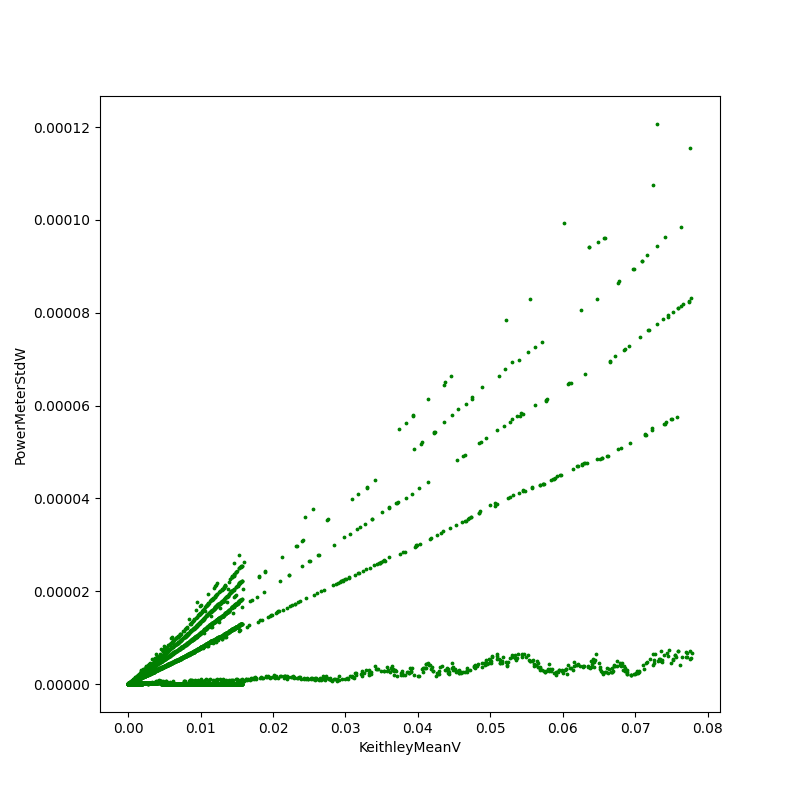
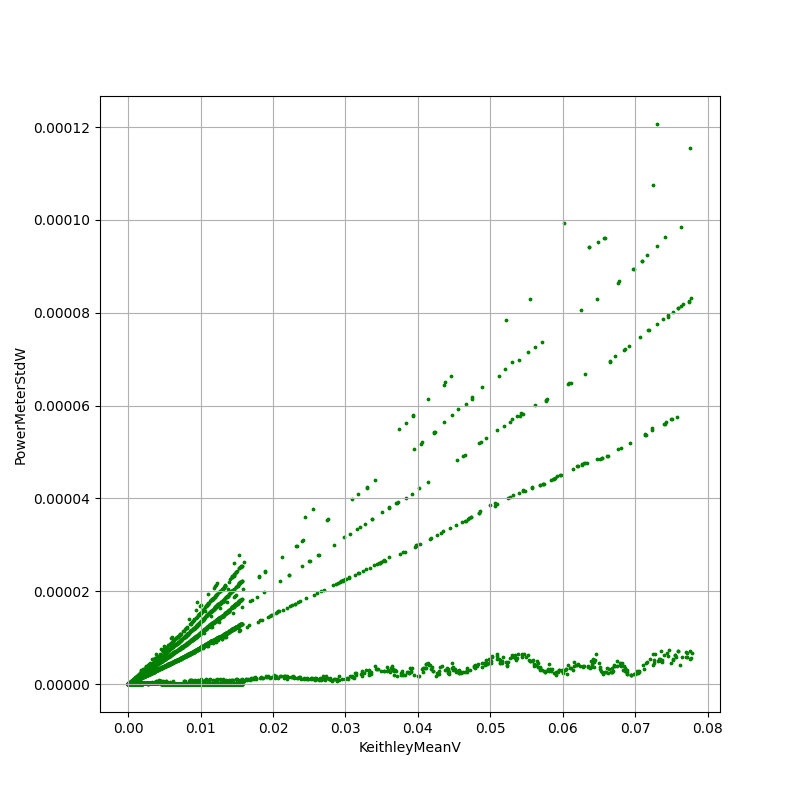
updates

diff --git a/test.py b/test.py
@@ -3,12 +3,22 @@ import matplotlib.pyplot as plt
 import os
 import pandas as pd
 from scipy.stats import linregress
+from astropy.time import Time
 
 # Read file and extract them by columns. 
 filename = '/workspaces/sensors-analysis/data/PM_vs_PD_Sensitivity_Final_1.txt'
+plt.close('all')
 
 run = pd.read_csv(filename, delimiter ='\t')
 print(run)
+
+TimenOk=run.loc[run['Time'].str.len() == 10].index #those are not ok we need to change
+run.loc[TimenOk,'Time'] = '0'+run['Time']
+tt=run['Date'].str[6:10]+'-'+run['Date'].str[3:5]+'-'+run['Date'].str[0:2]+' '+run['Time'].str[:8]+'.000'
+t = Time(list(tt.values), format='iso', scale='utc')
+#print(t.gps)
+
+
 # Add an index so that it is easy to be parsed when we do a time-fluction study
 plotsDir='Plots/'
 isExist = os.path.exists(plotsDir)
@@ -24,68 +34,178 @@ if not isExist:
    os.makedirs(nameDir)
    print("The new subdirectory is created!")
 
-# Subsets of filters
+#Time series plots
+plt.plot(t.gps, run['PowerMeterMeanW'].values, linestyle='None', marker='.', label='PowerMeterMeanW')
+plt.ylabel('PowerMeterMeanW')
+plt.xlabel('GPSTime (s)')
+plt.grid()
+plt.savefig(nameDir+'/PowerMeterMeanWvsTime.png')
+plt.close()
+
+#Time series plots
+
+plt.plot(t.gps-t.gps[0], run['PowerMeterMeanW'].values, linestyle='None', marker='o', label='PowerMeterMeanW', alpha=0.7)
+plt.plot(t.gps-t.gps[0], run['KeithleyMeanV'].values, linestyle='None', marker='.', label='KeithleyMeanV', alpha=0.5)
+plt.xlabel('seconds (s)')
+#plt.plot(t.gps, run['PowerMeterMeanW'].values, linestyle='None', marker='o', label='PowerMeterMeanW', alpha=0.7)
+#plt.plot(t.gps, run['KeithleyMeanV'].values, linestyle='None', marker='.', label='KeithleyMeanV', alpha=0.5)
+#plt.xlabel('GPSTime (s)')
+plt.legend()
+plt.grid()
+plt.savefig(nameDir+'/quantitiesvsTimeRun1234.png')
+plt.close()
+
+#time series divived by run
+Firstrun=[0,1235]
+Secondrun=[1235,5057]
+Thirdrun=[5058,8879]
+Fourthrun=[8880,10643]
+#nfilters= len(np.unique(run["NDFilter"]))
+
+
+plt.plot(t.gps[0:1234]-t.gps[0], run['PowerMeterMeanW'].values[0:1234], linestyle='None', marker='o', label='PowerMeterMeanW', alpha=0.7)
+plt.plot(t.gps[0:1234]-t.gps[0], run['KeithleyMeanV'].values[0:1234], linestyle='None', marker='.', label='KeithleyMeanV', alpha=0.5)
+plt.xlabel('seconds (s)')
+#plt.plot(t.gps, run['PowerMeterMeanW'].values, linestyle='None', marker='o', label='PowerMeterMeanW', alpha=0.7)
+#plt.plot(t.gps, run['KeithleyMeanV'].values, linestyle='None', marker='.', label='KeithleyMeanV', alpha=0.5)
+#plt.xlabel('GPSTime (s)')
+plt.legend()
+plt.grid()
+plt.savefig(nameDir+'/quantitiesvsTimeRun1.png')
+plt.close()
+
+plt.plot(t.gps[1235:5056]-t.gps[0], run['PowerMeterMeanW'].values[1235:5056], linestyle='None', marker='o', label='PowerMeterMeanW', alpha=0.7)
+plt.plot(t.gps[1235:5056]-t.gps[0], run['KeithleyMeanV'].values[1235:5056], linestyle='None', marker='.', label='KeithleyMeanV', alpha=0.5)
+plt.xlabel('seconds (s)')
+#plt.plot(t.gps, run['PowerMeterMeanW'].values, linestyle='None', marker='o', label='PowerMeterMeanW', alpha=0.7)
+#plt.plot(t.gps, run['KeithleyMeanV'].values, linestyle='None', marker='.', label='KeithleyMeanV', alpha=0.5)
+#plt.xlabel('GPSTime (s)')
+plt.legend()
+plt.grid()
+plt.savefig(nameDir+'/quantitiesvsTimeRun2.png')
+plt.close()
+
+plt.plot(t.gps[5057:8878]-t.gps[0], run['PowerMeterMeanW'].values[5057:8878], linestyle='None', marker='o', label='PowerMeterMeanW', alpha=0.7)
+plt.plot(t.gps[5057:8878]-t.gps[0], run['KeithleyMeanV'].values[5057:8878], linestyle='None', marker='.', label='KeithleyMeanV', alpha=0.5)
+plt.xlabel('seconds (s)')
+#plt.plot(t.gps, run['PowerMeterMeanW'].values, linestyle='None', marker='o', label='PowerMeterMeanW', alpha=0.7)
+#plt.plot(t.gps, run['KeithleyMeanV'].values, linestyle='None', marker='.', label='KeithleyMeanV', alpha=0.5)
+#plt.xlabel('GPSTime (s)')
+plt.legend()
+plt.grid()
+plt.savefig(nameDir+'/quantitiesvsTimeRun3.png')
+plt.close()
+
+plt.plot(t.gps[8879:-1]-t.gps[0], run['PowerMeterMeanW'].values[8879:-1], linestyle='None', marker='o', label='PowerMeterMeanW', alpha=0.7)
+plt.plot(t.gps[8879:-1]-t.gps[0], run['KeithleyMeanV'].values[8879:-1], linestyle='None', marker='.', label='KeithleyMeanV', alpha=0.5)
+plt.xlabel('seconds (s)')
+#plt.plot(t.gps, run['PowerMeterMeanW'].values, linestyle='None', marker='o', label='PowerMeterMeanW', alpha=0.7)
+#plt.plot(t.gps, run['KeithleyMeanV'].values, linestyle='None', marker='.', label='KeithleyMeanV', alpha=0.5)
+#plt.xlabel('GPSTime (s)')
+plt.legend()
+plt.grid()
+plt.savefig(nameDir+'/quantitiesvsTimeRun4.png')
+plt.close()
+
+
+
+plt.plot(t.gps, run['PowerMeterStdW'].values, linestyle='None', marker='o', label='PowerMeterStdW', alpha=0.7)
+plt.plot(t.gps, run['KeithleyStdV'].values, linestyle='None', marker='.', label='KeithleyStdV', alpha=0.5)
+plt.legend()
+plt.xlabel('GPSTime (s)')
+plt.grid()
+plt.savefig(nameDir+'/StDquantitiesvsTime.png')
+plt.close()
+
+
+
+
+
+#analysis by Filters
+filters = 3
+nfilters= len(np.unique(run["NDFilter"]))
+
+for i in range(nfilters):
+   NDF=run.loc[run['NDFilter'] == i+1]
+   x=NDF['KeithleyMeanV'].values
+   y=NDF['PowerMeterMeanW'].values
+   res = linregress(x, y)
+   NDF.plot(kind='scatter', figsize=(8, 8), x='KeithleyMeanV', y='PowerMeterMeanW', s=3, c='green')
+   plt.plot(x, res.intercept + res.slope*x, 'r', label=str(round(res.intercept,2))+ str(round(res.slope,2))+'x')
+   plt.legend()
+   plt.grid()
+   plt.savefig(nameDir+'/Mean_NDF'+str(i+1)+'.png')
+   plt.close()
+   ################### Residuals ###################
+   fig, axes0 = plt.subplots()
+   plt.plot(x, ((res.intercept + res.slope*x)-y)/y, marker ='.', linestyle = 'None', label='(yfit-y)/y')
+   axes0.set_yscale('log')
+   plt.grid()
+   plt.xlabel('KeithleyMeanV')
+   plt.ylabel('PowerMeterMeanW residuals')
+   plt.savefig(nameDir+'/Residuals_NDF'+str(i+1)+'.png')
+   plt.close()
+   ################### StdW vs. StdV ###################
+   NDF.plot(kind='scatter', figsize=(8, 8), x='KeithleyStdV', y='PowerMeterStdW', s=3, c='green')
+   plt.grid()
+   plt.savefig(nameDir+'/Std_NDF'+str(i+1)+'.png')
+   plt.close()
+   ################### MeanW histogram per ND ###################
+   NDF.hist(column='PowerMeterMeanW', bins=40, grid=True, figsize=(12,8), color='green', zorder=2, rwidth=0.9, alpha = 0.7)
+   plt.grid()
+   plt.savefig(nameDir+'/hNDF'+str(i+1)+'_PowerMeterMeanW.png')
+   plt.close()
+   ################### StdW vs. V ###################
+   run.plot(kind='scatter', figsize=(8, 8), x='KeithleyMeanV', y='PowerMeterStdW', s=3, c='green')
+   plt.grid()
+   plt.savefig(nameDir+'/StdW_MeanV_NDF123.png')
+   plt.close()
+   
+################### MeanW histogram per ND ###################
+#NDF1.hist(column='PowerMeterMeanW', bins=10, grid=True, figsize=(12,8), color='green', zorder=2, rwidth=0.9, alpha = 0.7)
+#plt.savefig(nameDir+'/hNDF1_PowerMeterMeanW.png')
+#NDF2.hist(column='PowerMeterMeanW', bins=10, grid=True, figsize=(12,8), color='green', zorder=2, rwidth=0.9, alpha = 0.7)
+#plt.savefig(nameDir+'/hNDF2_PowerMeterMeanW.png')
+#NDF3.hist(column='PowerMeterMeanW', bins=10, grid=True, figsize=(12,8), color='green', zorder=2, rwidth=0.9, alpha = 0.7)
+#plt.savefig(nameDir+'/hNDF3_PowerMeterMeanW.png')
+
+################### More histograms ###################
 NDF1=run.loc[run['NDFilter'] == 1]
 NDF2=run.loc[run['NDFilter'] == 2]
 NDF3=run.loc[run['NDFilter'] == 3]
 
-
-################### W vs. V ###################
-x=NDF1['KeithleyMeanV'].values
-y=NDF1['PowerMeterMeanW'].values
-res = linregress(x, y)
-#plt.savefig(nameDir+'/Mean_NDF1.png')
-NDF1.plot(kind='scatter', figsize=(8, 8), x='KeithleyMeanV', y='PowerMeterMeanW', s=3, c='green')
-plt.plot(x, res.intercept + res.slope*x, 'r', label='fitted line')
-plt.legend()
-plt.savefig(nameDir+'/Mean_NDF1.png')
-#from sklearn.linear_model import LinearRegression
-#linear_regressor = LinearRegression()  # create object for the class
-#linear_regressor.fit(run.loc, Y)  # perform linear regression
-
-#Linear fit 
-
-NDF2.plot(kind='scatter', figsize=(8, 8), x='KeithleyMeanV', y='PowerMeterMeanW', s=3, c='blue')
-plt.savefig(nameDir+'/Mean_NDF2.png')
-NDF3.plot(kind='scatter', figsize=(8, 8), x='KeithleyMeanV', y='PowerMeterMeanW', s=3, c='magenta')
-plt.savefig(nameDir+'/Mean_NDF3.png')
-
-# TODO: Compute residuals 
+#fig, axes = plt.subplots()
+#NDF1.hist(ax=axes, column='PowerMeterMeanW', bins=100, grid=True, figsize=(12,8), color='green', zorder=2, rwidth=0.9, alpha = 0.7)
+#NDF2.hist(ax=axes, column='PowerMeterMeanW', bins=100, grid=True, figsize=(12,8), color='blue', zorder=2, rwidth=0.9, alpha = 0.5)
+#NDF3.hist(ax=axes, column='PowerMeterMeanW', bins=100, grid=True, figsize=(12,8), color='magenta', zorder=2, rwidth=0.9, alpha = 0.3)
+#axes.gca().set_xscale('log')
+#plt.savefig(nameDir+'/h123.png')
+#plt.close()
 
 
-################### StdW vs. V ###################
-run.plot(kind='scatter', figsize=(8, 8), x='KeithleyMeanV', y='PowerMeterStdW', s=3, c='green')
-plt.savefig(nameDir+'/StdW_MeanV_NDF123.png')
+NDF1PMMW=NDF1["PowerMeterMeanW"]
+NDF2PMMW=NDF2["PowerMeterMeanW"]
+NDF3PMMW=NDF3["PowerMeterMeanW"]
+#bins1=np.arange(min(NDF1PMMW), max(NDF1PMMW) + 10**-8, 10**-8)
+#bins2=np.arange(min(NDF2PMMW), max(NDF2PMMW) + 10**-6, 10**-6)
+#bins3=np.arange(min(NDF3PMMW), max(NDF3PMMW) + 10**-4, 10**-4)
+fig, ax = plt.subplots()
 
-################### StdW vs. StdV ###################
-#fig, axes0 = plt.subplots()
-NDF1.plot(kind='scatter', figsize=(8, 8), x='KeithleyStdV', y='PowerMeterStdW', s=3, c='green')
-plt.savefig(nameDir+'/Std_NDF1.png')
-NDF2.plot(kind='scatter', figsize=(8, 8), x='KeithleyStdV', y='PowerMeterStdW', s=3, c='blue')
-plt.savefig(nameDir+'/Std_NDF2.png')
-NDF3.plot(kind='scatter', figsize=(8, 8), x='KeithleyStdV', y='PowerMeterStdW', s=3, c='magenta')
-plt.savefig(nameDir+'/Std_NDF3.png')
+plt.hist(NDF1PMMW, bins=np.logspace(np.log10(1e-10),np.log10(10), 100), color='green', alpha = 0.7)
+plt.hist(NDF2PMMW, bins=np.logspace(np.log10(1e-10),np.log10(10), 100), color='blue', alpha = 0.7)
+plt.hist(NDF3PMMW, bins=np.logspace(np.log10(1e-10),np.log10(10), 100), color='magenta', alpha = 0.7)
+plt.grid()
+#plt.gca().set_xscale("log")
+#plt.show()
 
-
-################### MeanW histogram per ND ###################
-NDF1.hist(column='PowerMeterMeanW', bins=10, grid=True, figsize=(12,8), color='green', zorder=2, rwidth=0.9, alpha = 0.7)
-plt.savefig(nameDir+'/hNDF1_PowerMeterMeanW.png')
-NDF2.hist(column='PowerMeterMeanW', bins=10, grid=True, figsize=(12,8), color='green', zorder=2, rwidth=0.9, alpha = 0.7)
-plt.savefig(nameDir+'/hNDF2_PowerMeterMeanW.png')
-NDF3.hist(column='PowerMeterMeanW', bins=10, grid=True, figsize=(12,8), color='green', zorder=2, rwidth=0.9, alpha = 0.7)
-plt.savefig(nameDir+'/hNDF3_PowerMeterMeanW.png')
-
-
-# Histograms of all variables
-#df['my_column'].plot(kind='hist', logx=True)
-
-################### More histograms ###################
-fig, axes = plt.subplots()
-NDF1.hist(ax=axes, column='PowerMeterMeanW', bins=100, grid=True, figsize=(12,8), color='green', zorder=2, rwidth=0.9, alpha = 0.7)
-NDF2.hist(ax=axes, column='PowerMeterMeanW', bins=100, grid=True, figsize=(12,8), color='blue', zorder=2, rwidth=0.9, alpha = 0.5)
-NDF3.hist(ax=axes, column='PowerMeterMeanW', bins=100, grid=True, figsize=(12,8), color='magenta', zorder=2, rwidth=0.9, alpha = 0.3)
-axes.set_xscale('log')
-plt.savefig(nameDir+'/h123.png')
+#plt.hist(NDF1PMMW, bins1,color='green', alpha = 0.7)
+#plt.hist(NDF2PMMW, bins2, color='blue', alpha = 0.5)
+#plt.hist(NDF3PMMW, bins3, color='magenta',alpha = 0.3)
+#plt.ylim(0,200)
+plt.xscale('log')
+plt.yscale('log')
+plt.savefig(nameDir+'/h123pmm.png')
+plt.close()
 
 
 PowerMeterStdW=run["PowerMeterStdW"]
@@ -94,30 +214,45 @@ fig, ax = plt.subplots()
 plt.hist(PowerMeterStdW, bins)
 #plt.ylim(0,200)
 plt.yscale('log')
-plt.savefig(nameDir+'/h2_.png')
+plt.grid()
+plt.savefig(nameDir+'/h2.png')
+plt.close()
 
 #fig, ax = plt.subplots()
-ax = run.hist(column='PowerMeterStdW', bins=10, grid=False, figsize=(12,8), color='#86bf91', zorder=2, rwidth=0.9)
-plt.savefig(nameDir+'/h2.png')
+#ax = run.hist(column='PowerMeterStdW', bins=10, grid=False, figsize=(12,8), color='#86bf91', zorder=2, rwidth=0.9)
+#plt.savefig(nameDir+'/h2.png')
 
 KeithleyMeanV=run["KeithleyMeanV"]
-bins=np.arange(min(KeithleyMeanV), max(KeithleyMeanV) + 10**-6, 10**-6)
+#bins=np.arange(min(KeithleyMeanV), max(KeithleyMeanV) + 10**-4, 10**-4)
 fig, ax = plt.subplots()
-plt.hist(KeithleyMeanV, bins)
-#plt.ylim(0,200)
-plt.yscale('log')
-plt.savefig(nameDir+'/h3_.png')
-
-ax = run.hist(column='KeithleyMeanV', bins=10, grid=False, figsize=(12,8), color='#86bf91', zorder=2, rwidth=0.9)
+#n, bins, patches=plt.hist(KeithleyMeanV, bins)
+#print(max(KeithleyMeanV)), print(min(KeithleyMeanV))
+plt.hist(KeithleyMeanV, bins=np.logspace(np.log10(1e-7),np.log10(1e-3), 100), color='green', alpha = 0.7)
+#print(max(n))
+#plt.ylim(0,10000)
+plt.xscale('log')
+plt.grid()
+plt.xlabel('KeithleyMeanV')
 plt.savefig(nameDir+'/h3.png')
+plt.close()
 
-ax = run.hist(column='KeithleyStdV', bins=10, grid=False, figsize=(12,8), color='#86bf91', zorder=2, rwidth=0.9)
+#ax = run.hist(column='KeithleyMeanV', bins=10, grid=False, figsize=(12,8), color='#86bf91', zorder=2, rwidth=0.9)
+#plt.savefig(nameDir+'/h3.png')
+
+KeithleyStdV=run["KeithleyStdV"]
+bins=np.arange(min(KeithleyStdV), max(KeithleyStdV) + 10**-6, 10**-6)
+fig, ax = plt.subplots()
+n, bins, patches=plt.hist(KeithleyStdV, bins)
+plt.ylim(0,2000)
+#plt.yscale('log')
+plt.grid()
 plt.savefig(nameDir+'/h4.png')
+plt.close()
 
 ax = run.hist(column='PowerSetpointmW', bins=10, grid=False, figsize=(12,8), color='#86bf91', zorder=2, rwidth=0.9)
 plt.savefig(nameDir+'/h5.png')
-
 ax = run.hist(column='LaserDisplaymW', bins=10, grid=False, figsize=(12,8), color='#86bf91', zorder=2, rwidth=0.9)
 plt.savefig(nameDir+'/h6.png') 
+plt.close()
 
-
+plt.close('all')
